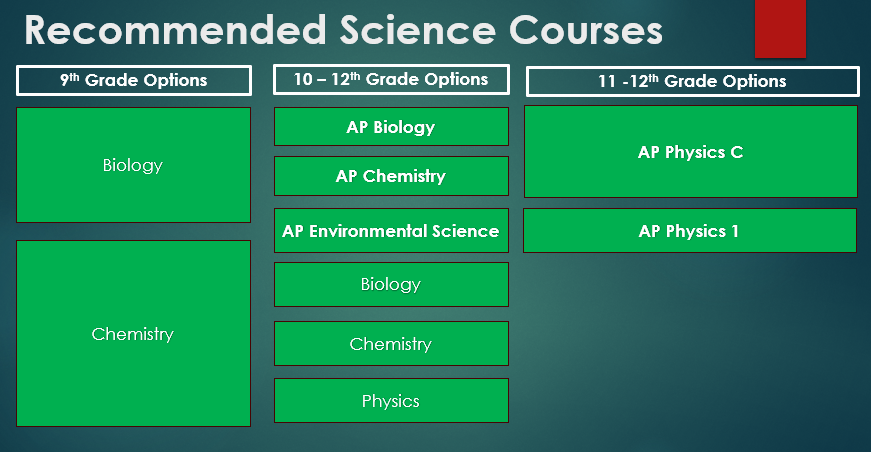
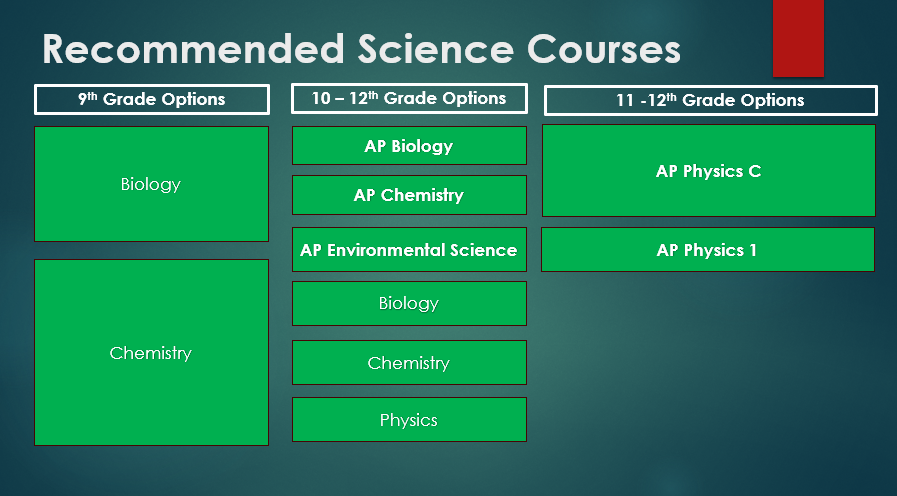
slides fixed

diff --git a/script.js b/script.js
@@ -21,80 +21,107 @@ if (mobileDdBtn && mobileSubmenu) {
 }
 
 
+document.querySelectorAll('[data-carousel]').forEach(makeCarousel);
 
-
-
-// ===== Simple Carousel (arrows, dots, swipe) =====
-function makeCarousel(root){
-  const track = root.querySelector('[data-carousel-track]');
-  const slides = Array.from(track.children);
-  const prevBtn = root.querySelector('[data-carousel-prev]');
-  const nextBtn = root.querySelector('[data-carousel-next]');
+function makeCarousel(root) {
+  const track    = root.querySelector('[data-carousel-track]');
+  const slides   = Array.from(track?.children || []);
+  const prevBtn  = root.querySelector('[data-carousel-prev]');
+  const nextBtn  = root.querySelector('[data-carousel-next]');
   const dotsWrap = root.querySelector('[data-carousel-dots]');
 
+  if (!track || !slides.length || !prevBtn || !nextBtn || !dotsWrap) {
+    console.warn('Carousel: missing element(s).'); return;
+  }
+
   // Build dots
+  dotsWrap.innerHTML = '';
   slides.forEach((_, i) => {
     const b = document.createElement('button');
     b.type = 'button';
     b.setAttribute('role', 'tab');
-    b.setAttribute('aria-label', `Go to slide ${i+1}`);
+    b.setAttribute('aria-label', `Go to slide ${i + 1}`);
     if (i === 0) b.setAttribute('aria-selected', 'true');
     dotsWrap.appendChild(b);
   });
   const dots = Array.from(dotsWrap.children);
 
   let index = 0;
-  let w = root.clientWidth;
 
-  function updateWidth(){ w = root.clientWidth; goTo(index, false); }
-  window.addEventListener('resize', updateWidth);
-
-  function goTo(i, animate = true){
-    index = (i + slides.length) % slides.length;
+  const apply = (animate = true, extraPct = 0) => {
     track.style.transition = animate ? 'transform .35s ease' : 'none';
-    track.style.transform = `translateX(${-index * w}px)`;
-    dots.forEach((d, k) => d.setAttribute('aria-selected', k === index ? 'true' : 'false'));
-  }
+    // base is -index * 100%, plus an optional drag offset in %
+    const basePct = -index * 100 + extraPct;
+    track.style.transform = `translate3d(${basePct}%, 0, 0)`;
+    if (extraPct === 0) {
+      dots.forEach((d, k) => d.setAttribute('aria-selected', k === index ? 'true' : 'false'));
+    }
+  };
 
-  prevBtn.addEventListener('click', () => goTo(index - 1));
-  nextBtn.addEventListener('click', () => goTo(index + 1));
-  dots.forEach((d, i) => d.addEventListener('click', () => goTo(i)));
+  const goTo = (i, animate = true) => {
+    index = (i + slides.length) % slides.length;
+    apply(animate, 0);
+  };
 
-  // Keyboard support
+  // Prevent form submit side-effects
+  prevBtn.type = prevBtn.type || 'button';
+  nextBtn.type = nextBtn.type || 'button';
+
+  // Arrow clicks
+  prevBtn.addEventListener('click', (e) => { e.preventDefault(); goTo(index - 1, true); });
+  nextBtn.addEventListener('click', (e) => { e.preventDefault(); goTo(index + 1, true); });
+
+  // Dot clicks
+  dots.forEach((d, i) => d.addEventListener('click', () => goTo(i, true)));
+
+  // Keyboard
+  if (!root.hasAttribute('tabindex')) root.setAttribute('tabindex', '0');
   root.addEventListener('keydown', (e) => {
-    if (e.key === 'ArrowLeft') goTo(index - 1);
-    if (e.key === 'ArrowRight') goTo(index + 1);
+    if (e.key === 'ArrowLeft')  { e.preventDefault(); goTo(index - 1, true); }
+    if (e.key === 'ArrowRight') { e.preventDefault(); goTo(index + 1, true); }
   });
 
-  // Touch swipe
-  let startX = 0, dx = 0, isDown = false, isMoving = false;
+  // Swipe/drag on track only; ignore controls
+  let startX = 0, dx = 0, isDown = false;
+  const isOnControl = (el) =>
+    !!el.closest('[data-carousel-prev], [data-carousel-next], [data-carousel-dots]');
 
-  root.addEventListener('pointerdown', (e) => {
-    isDown = true; isMoving = true; startX = e.clientX; dx = 0;
+  track.addEventListener('pointerdown', (e) => {
+    if (isOnControl(e.target)) return;
+    isDown = true; startX = e.clientX; dx = 0;
     track.style.transition = 'none';
-    root.setPointerCapture(e.pointerId);
+    track.setPointerCapture?.(e.pointerId);
   });
-  root.addEventListener('pointermove', (e) => {
+
+  track.addEventListener('pointermove', (e) => {
     if (!isDown) return;
     dx = e.clientX - startX;
-    track.style.transform = `translateX(${ -index * w + dx }px)`;
+    // convert pixel drag to percent of the carousel viewport width
+    const rootWidth = root.clientWidth || 1;
+    const dragPct = (dx / rootWidth) * 100;
+    apply(false, dragPct);
   });
-  root.addEventListener('pointerup', (e) => {
+
+  const endPointer = (e) => {
     if (!isDown) return;
     isDown = false;
-    // snap threshold: 20% of width
-    const threshold = w * 0.2;
-    if (dx > threshold) goTo(index - 1);
-    else if (dx < -threshold) goTo(index + 1);
-    else goTo(index);
-    isMoving = false;
-    root.releasePointerCapture?.(e.pointerId);
-  });
-  root.addEventListener('pointercancel', () => { if (isMoving) goTo(index); isDown = false; });
+    const rootWidth = root.clientWidth || 1;
+    const dragPct = (dx / rootWidth) * 100;
+    const thresholdPct = 20; // 20% swipe to change slide
+    if (dragPct >  thresholdPct) goTo(index - 1, true);
+    else if (dragPct < -thresholdPct) goTo(index + 1, true);
+    else goTo(index, true);
+    track.releasePointerCapture?.(e.pointerId);
+  };
+  track.addEventListener('pointerup', endPointer);
+  track.addEventListener('pointercancel', endPointer);
 
-  // Init
-  updateWidth();
+  // Init + resize
+  const init = () => apply(false, 0);
+  if (document.readyState === 'loading') {
+    document.addEventListener('DOMContentLoaded', init, { once: true });
+  } else {
+    init();
+  }
+  window.addEventListener('resize', () => requestAnimationFrame(() => apply(false, 0)));
 }
-
-// Initialize all carousels on the page
-document.querySelectorAll('[data-carousel]').forEach(makeCarousel);

diff --git a/index.html b/index.html
@@ -130,35 +130,32 @@
     
       <!-- Carousel -->
       <div class="carousel" data-carousel id="math-carousel">
-        <button class="carousel__arrow prev" aria-label="Previous image" data-carousel-prev>❮</button>
+        <button class="carousel__arrow prev" type="button" aria-label="Previous image" data-carousel-prev>❮</button>
 
         <div class="carousel__track" data-carousel-track>
           <!-- Replace src paths with your real images -->
           <figure class="carousel__slide">
-            <img src="images/math_flow1.png" alt="Algebra concept example" loading="lazy">
-            <figcaption>Algebra • Linear equations</figcaption>
+            <img src="images/math_flow1.png" alt="Middle" loading="lazy">
+            <figcaption>Middle School Math Curriculum Flowchart</figcaption>
           </figure>
           <figure class="carousel__slide">
-            <img src="images/math_flow2.png" alt="Geometry concept example" loading="lazy">
-            <figcaption>Geometry • Triangles & angles</figcaption>
+            <img src="images/math_flow2.png" alt="High" loading="lazy">
+            <figcaption>High School Math Curriculum Flowchart</figcaption>
           </figure>
           <figure class="carousel__slide">
-            <img src="images/math_flow3.png" alt="Functions and graphs" loading="lazy">
-            <figcaption>Functions • Graph features</figcaption>
+            <img src="images/math_flow3.png" alt="Tech" loading="lazy">
+            <figcaption>Tech Courses Flowchart</figcaption>
           </figure>
           <figure class="carousel__slide">
-            <img src="images/math_flow4.png" alt="Statistics and data" loading="lazy">
-            <figcaption>Statistics • Mean & median</figcaption>
+            <img src="images/math_flow4.png" alt="Science" loading="lazy">
+            <figcaption>Science Courses</figcaption>
           </figure>
         </div>
 
-        <button class="carousel__arrow next" aria-label="Next image" data-carousel-next>❯</button>
+        <button class="carousel__arrow next" type="button" aria-label="Next image" data-carousel-next>❯</button>
 
         <div class="carousel__dots" aria-label="Slide dots" role="tablist" data-carousel-dots></div>
       </div>
-
-
- 
   </section>
 
 

diff --git a/style.css b/style.css
@@ -433,7 +433,7 @@ footer {
 /* ===== Image Carousel ===== */
 .carousel{
   position: relative;
-  max-width: 900px;
+  max-width: 800px;
   margin: 1.25rem auto 0;
   border: 1px solid #e5e7eb;
   border-radius: 14px;
@@ -444,13 +444,12 @@ footer {
 
 .carousel__track{
   display: flex;
-  align-items: stretch;
-  transition: transform .35s ease;
-  will-change: transform;
+  gap: 0;
+  padding: 0;
 }
 
 .carousel__slide{
-  min-width: 100%;
+  flex: 0 0 90%;   /* EXACTLY one panel wide */
   display: grid;
   grid-template-rows: 1fr auto;
   background: #f9fafb;
@@ -458,10 +457,11 @@ footer {
 
 .carousel__slide img{
   width: 100%;
-  height: clamp(220px, 45vw, 480px);
-  object-fit: cover;       /* use 'contain' if you prefer letterboxing */
-  display: block;
+  height: clamp(200px, 45vw, 400px);
+  object-fit: cover;
+  object-position: 40% center;   /* <-- shift to the left side */
 }
+
 
 .carousel__slide figcaption{
   padding: 10px 12px;
